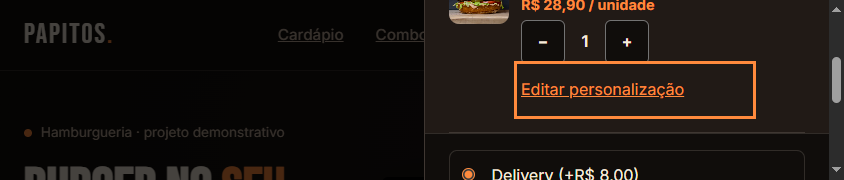
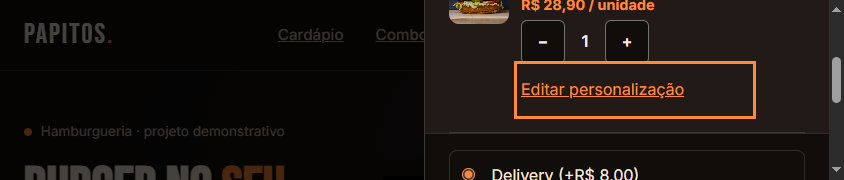
,

diff --git a/auditoria-geral/PROGRESSO.md b/auditoria-geral/PROGRESSO.md
@@ -60,6 +60,15 @@ Sem commit, push ou publicação. Sem instalação de dependências.
 - [x] Worktree `C:\Users\Lucas\Documents\OMNIROUTE\Curr-culo-publish-prep`, branch `prep/publish`, tracking origin/main.
 - [x] Transferência seletiva: apenas 3 arquivos papitos (index/style/script). Beauty, Seu Manoel e raiz idênticos.
 - [x] Recursos validados (previews, vídeos, cart-core, svg, booking-rules).
+- [x] Testes no worktree v1: node 15/15, bloco-2 15/15, bloco-3 10/10, robustez PASS, matriz redesign 30/30, smoke portfolio PASS.
+- [x] Commit local v1: `0b03fdb` (3 papitos, +279/-198). Fast-forward inicial OK.
+- [x] Push interrompido: origin/main avançou para `be0b7f0` (reintroduziu lixo via `41c8078`); non-fast-forward.
+- [x] Investigação remota: commits `41c8078` (565 arquivos, lixo) + `7d5feff` (merge) + `be0b7f0` (redesign + relatórios + screenshots). Nenhum segredo/CPF real/telefone real reintroduzido; apenas e-mail público e placeholders de teste.
+- [x] Higiene v2: nova branch `prep/publish-v2` + worktree `Curr-culo-publish-v2` a partir de `origin/main` (be0b7f0). 305 arquivos de desenvolvimento removidos do índice (git rm --cached), cópias locais preservadas. .gitignore/.gitattributes preservados. `opencode.json` removido do índice.
+- [x] Commit local v2: `33a2fc5` ("chore: remove development artifacts from index (prep/publish-v2)"). Working tree limpo.
+- [x] Fast-forward confirmado: origin/main (be0b7f0) é ancestral de HEAD (33a2fc5); 1 commit ahead; 305 arquivos deletados, 0 adições.
+- [x] Validação final v2: node --test 15/15; bloco-2 15/15; bloco-3 10/10; robustez PASS; matriz redesign 30/30; portfolio/beauty/manoel smoke PASS (títulos corretos, sem overflow, 0 erros JS). Links externos github.com retornam 404 (repo não publicado ainda — esperado).
+- [ ] Push/publicação — aguardando autorização do usuário.
 - [x] Testes a partir do worktree: node 15/15, bloco-2 15/15, bloco-3 10/10, robustez PASS, matriz redesign 30/30, portfólio+3 projetos 200 sem erros.
 - [x] Commit local `0b03fdb` em `prep/publish` (3 arquivos, +279/−198). Fast-forward confirmado (1 commit à frente, sem force).
 - [ ] Push/publicação — aguardando autorização explícita do usuário.
